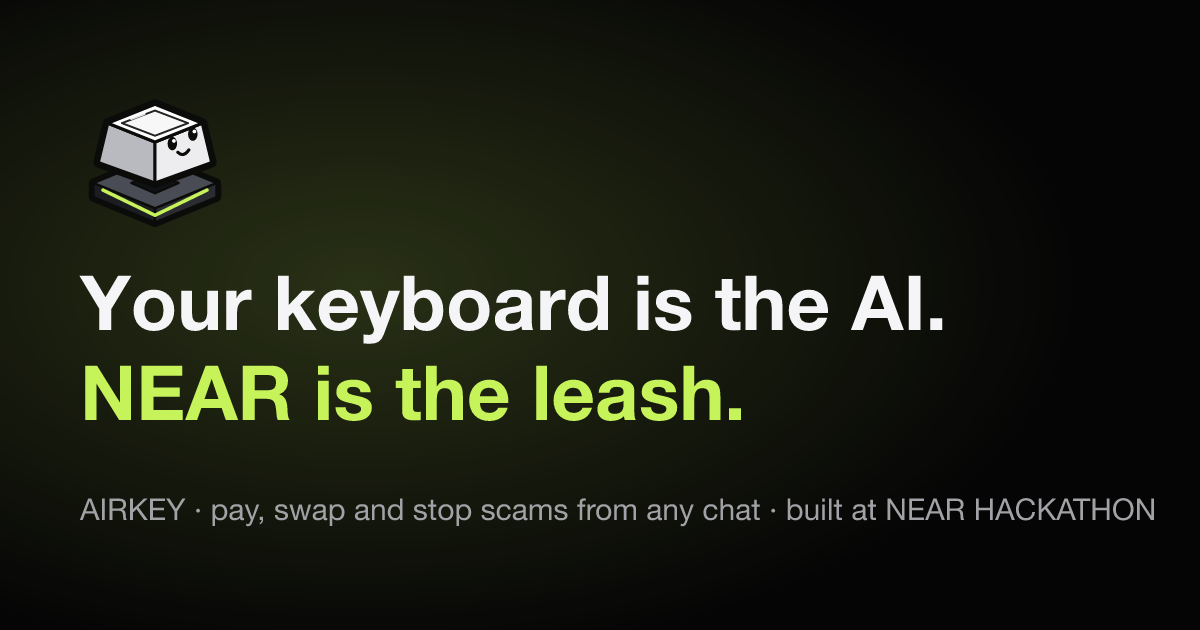
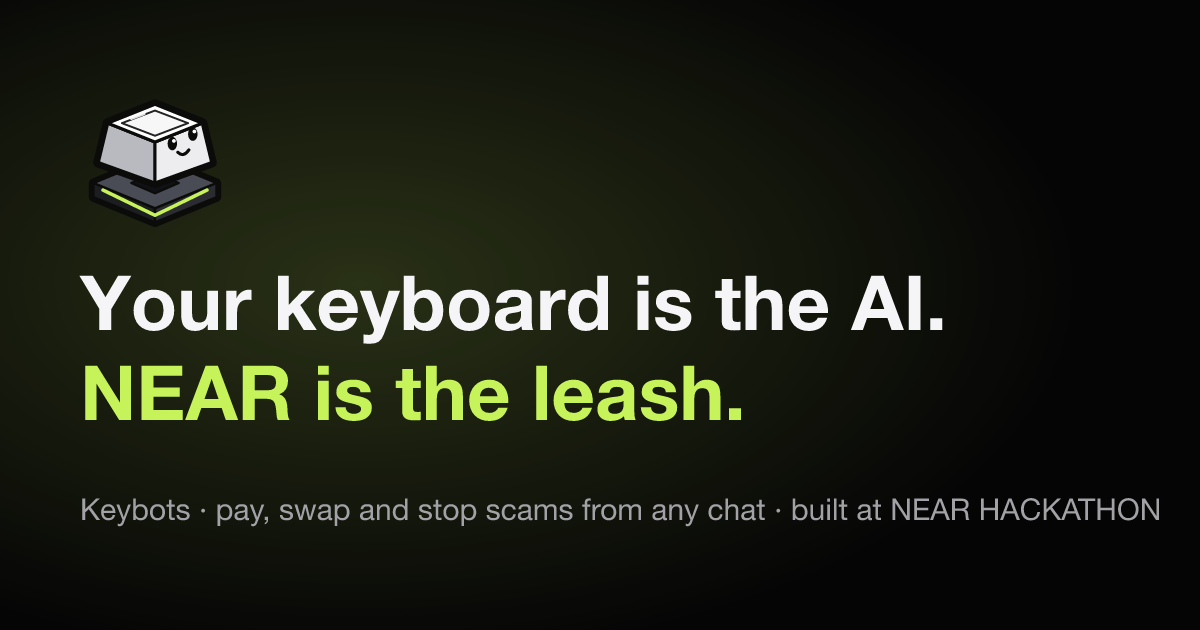
landing: rename AIRKEY to Keybots in the page, nav, keyboard, video kit and share image

Changed region(s): [[0.0617, 0.7841, 0.9867, 0.8444]]

diff --git a/landing/index.html b/landing/index.html
@@ -4,13 +4,13 @@
     <meta charset="UTF-8" />
     <meta name="viewport" content="width=device-width, initial-scale=1.0" />
     <meta name="theme-color" content="#08090a" />
-    <title>AIRKEY · the keyboard that pays, on NEAR</title>
+    <title>Keybots · the keyboard that pays, on NEAR</title>
     <meta
       name="description"
-      content="AIRKEY is a phone keyboard with AI agents in it. Each agent has its own NEAR account, and a NEAR contract called the leash holds the money and enforces your rules."
+      content="Keybots is a phone keyboard with AI agents in it. Each agent has its own NEAR account, and a NEAR contract called the leash holds the money and enforces your rules."
     />
     <link rel="icon" type="image/svg+xml" href="/favicon.svg" />
-    <meta property="og:title" content="AIRKEY · Your keyboard is the AI. NEAR is the leash." />
+    <meta property="og:title" content="Keybots · Your keyboard is the AI. NEAR is the leash." />
     <meta property="og:description" content="Pay, swap and stop scams from any chat. AI agents on NEAR, inside rules a contract enforces." />
     <meta property="og:image" content="https://airkey-keyboard.vercel.app/og.png" />
     <meta property="og:url" content="https://airkey-keyboard.vercel.app" />

diff --git a/landing/src/App.tsx b/landing/src/App.tsx
@@ -23,7 +23,7 @@ function Video() {
     return VIDEO_URL.endsWith(".mp4") ? (
       <video className="y-media" src={VIDEO_URL} controls playsInline preload="metadata" />
     ) : (
-      <iframe className="y-media" src={VIDEO_URL} title="AIRKEY demo" allow="autoplay; encrypted-media; picture-in-picture" allowFullScreen />
+      <iframe className="y-media" src={VIDEO_URL} title="Keybots demo" allow="autoplay; encrypted-media; picture-in-picture" allowFullScreen />
     );
   }
   return (
@@ -50,7 +50,7 @@ export default function App() {
     <>
       <nav className="y-nav">
         <a href="#top" className="brand">
-          <Mark size={30} /> AIRKEY
+          <Mark size={30} /> KEYBOTS
         </a>
         <span className="y-links">
           <a href="#what">Features</a>
@@ -156,7 +156,7 @@ export default function App() {
 
       <footer className="foot wrap">
         <span>
-          <Mark size={22} /> AIRKEY · built at NEAR HACKATHON 2026 by Harshal Bhangale
+          <Mark size={22} /> Keybots · built at NEAR HACKATHON 2026 by Harshal Bhangale
         </span>
         <a className="built-near" href="https://near.org" target="_blank" rel="noreferrer">
           <NearMark size={18} /> Built on NEAR

diff --git a/landing/src/ui.tsx b/landing/src/ui.tsx
@@ -1,7 +1,7 @@
 export const REPO = "https://github.com/harshalbhangale/near-hack";
 export const LEASH = "https://testnet.nearblocks.io/address/leash.airkey-harshal.testnet";
 export const E2E = `${REPO}/blob/main/docs/evidence/testnet-e2e.md`;
-// Placeholder until the AIRKEY Android build is uploaded: swap this one URL for the AIRKEY APK on S3.
+// Placeholder until the Keybots Android build is uploaded: swap this one URL for the Keybots APK on S3.
 export const APK_URL = "https://kall-markets-downloads-308324916322.s3.ap-south-1.amazonaws.com/apps/kall-keyboard.apk";
 
 export function GitHub({ size = 22 }: { size?: number }) {
@@ -39,7 +39,7 @@ export function Play({ size = 22 }: { size?: number }) {
   );
 }
 
-/** The AIRKEY logo: a lime keycap with the NEAR mark as its legend (public/logo.svg). */
+/** The Keybots logo: a lime keycap with the NEAR mark as its legend (public/logo.svg). */
 export function Mark({ size = 28 }: { size?: number }) {
   return <img src="/logo.svg" width={size} height={size} alt="" aria-hidden style={{ display: "block" }} />;
 }

diff --git a/landing/src/Mascot.tsx b/landing/src/Mascot.tsx
@@ -5,8 +5,8 @@ setTheme("mono");
 const PERIOD = 2400;
 const svg = (t: number) => `<svg viewBox="0 0 240 240" xmlns="http://www.w3.org/2000/svg">${scene(t)}</svg>`;
 
-/** The AIRKEY mascot, drawn live: it gets excited and clicks itself. Click or tap it to make it click now. */
-export default function Mascot({ size = 300, label = "The AIRKEY mascot, a key that clicks itself" }: { size?: number; label?: string }) {
+/** The Keybots mascot, drawn live: it gets excited and clicks itself. Click or tap it to make it click now. */
+export default function Mascot({ size = 300, label = "The Keybots mascot, a key that clicks itself" }: { size?: number; label?: string }) {
   const box = useRef<HTMLDivElement>(null);
   const start = useRef(performance.now());
 

diff --git a/landing/src/Phone.tsx b/landing/src/Phone.tsx
@@ -237,14 +237,14 @@ export function Keys({ lit = "" }: { lit?: string }) {
       ))}
       <div className="krow r3">
         <span className="k fn w">123</span>
-        <span className={`k space ${lit === " " ? "lit" : ""}`}>AIRKEY</span>
+        <span className={`k space ${lit === " " ? "lit" : ""}`}>KEYBOTS</span>
         <span className="k fn w"><I n="ret" s={18} /></span>
       </div>
     </div>
   );
 }
 
-/** A chat with the AIRKEY keyboard. It plays a scenario; the visitor can tap or hold the lime button. */
+/** A chat with the Keybots keyboard. It plays a scenario; the visitor can tap or hold the lime button. */
 export default function Phone({
   scenario,
   onDone,

diff --git a/landing/src/scenarios.ts b/landing/src/scenarios.ts
@@ -211,7 +211,7 @@ export const SCENARIOS: Scenario[] = [
         },
       },
       { do: "act" },
-      { do: "panel", panel: { kind: "done", tone: "pending", title: "Waiting for you", sub: "New receiver (R7). Approve in AIRKEY with Face ID.", tx: "4Zckku5j…" } },
+      { do: "panel", panel: { kind: "done", tone: "pending", title: "Waiting for you", sub: "New receiver (R7). Approve in Keybots with Face ID.", tx: "4Zckku5j…" } },
       { do: "wait", ms: 1800 },
       { do: "keys" },
     ],

diff --git a/landing/SUBMISSION-DRAFT.md b/landing/SUBMISSION-DRAFT.md
@@ -1,4 +1,4 @@
-# AIRKEY submission drafts
+# Keybots submission drafts
 
 Drafts for Harshal to edit and post himself. Nothing here has been posted. Every claim matches the README on main and a recorded testnet run.
 
@@ -16,7 +16,7 @@ Drafts for Harshal to edit and post himself. Nothing here has been posted. Every
 
 ## Submission description (20 to 2000 characters)
 
-AIRKEY is a phone keyboard with AI agents in it, and NEAR is the leash that holds them.
+Keybots is a phone keyboard with AI agents in it, and NEAR is the leash that holds them.
 
 You type "pay harshal 0.2 for dinner" in any chat and hold a button; an agent pays. Each agent is its own NEAR sub-account whose only key is a function-call key for one contract, the leash. The leash holds the money and decides every payment in a fixed order: kill switch, blocklist, per-payment cap, daily cap, an allowlist for untrusted agents, and owner approval. Every decision is an on-chain event.
 
@@ -36,4 +36,4 @@ Links: https://airkey-keyboard.vercel.app · https://github.com/harshalbhangale/
 
 - [ ] The repo is public.
 - [ ] The demo video is uploaded and linked.
-- [ ] The Android button on the site points at an AIRKEY build (it points at the Kall Markets APK as a placeholder right now).
+- [ ] The Android button on the site points at a Keybots build (it points at the Kall Markets APK as a placeholder right now).

diff --git a/landing/video/README.md b/landing/video/README.md
@@ -1,17 +1,17 @@
-# AIRKEY demo video kit
+# Keybots demo video kit
 
 Recording day is just capture. This folder turns one screen recording into the final 2:00–2:30, 1080p video with an intro card, timed captions and an end card.
 
 ```bash
 cd landing/video
 npm install                       # once: the SVG renderer for the cards
-./make.sh ~/Desktop/recording.mov # writes airkey-demo.mp4
+./make.sh ~/Desktop/recording.mov # writes keybots-demo.mp4
 ```
 
 ## What it makes
 
-1. **Intro card** (2 s): the AIRKEY mark and "Your keyboard is the AI. NEAR is the leash."
-2. **Your recording** with a caption for each beat. A portrait iPhone recording sits on the dark AIRKEY background with the caption beside it; a landscape recording fills the frame with a lower-third caption. Your recording's audio (voice-over) is kept.
+1. **Intro card** (2 s): the Keybots mark and "Your keyboard is the AI. NEAR is the leash."
+2. **Your recording** with a caption for each beat. A portrait iPhone recording sits on the dark Keybots background with the caption beside it; a landscape recording fills the frame with a lower-third caption. Your recording's audio (voice-over) is kept.
 3. **End card** (4 s): the line, the repo URL and "Built at NEAR HACKATHON 2026".
 
 The script warns if the total isn't between 2:00 and 2:30.

diff --git a/landing/README.md b/landing/README.md
@@ -1,4 +1,4 @@
-# AIRKEY landing page
+# Keybots landing page
 
 Vite + React, no 3D libraries.
 
@@ -9,6 +9,6 @@ npm run dev      # http://localhost:5180
 npm run build    # static site in landing/dist
 ```
 
-- `src/Phone.tsx` draws a chat with the AIRKEY keyboard and plays the demo chats; you can hold or tap the bar's button.
+- `src/Phone.tsx` draws a chat with the Keybots keyboard and plays the demo chats; you can hold or tap the bar's button.
 - `src/scenarios.ts` holds the five chats. Each outcome matches a run recorded in the top-level README.
-- `src/ui.tsx` has the download badges. `APK_URL` is a placeholder until the AIRKEY Android build is on S3.
+- `src/ui.tsx` has the download badges. `APK_URL` is a placeholder until the Keybots Android build is on S3.
